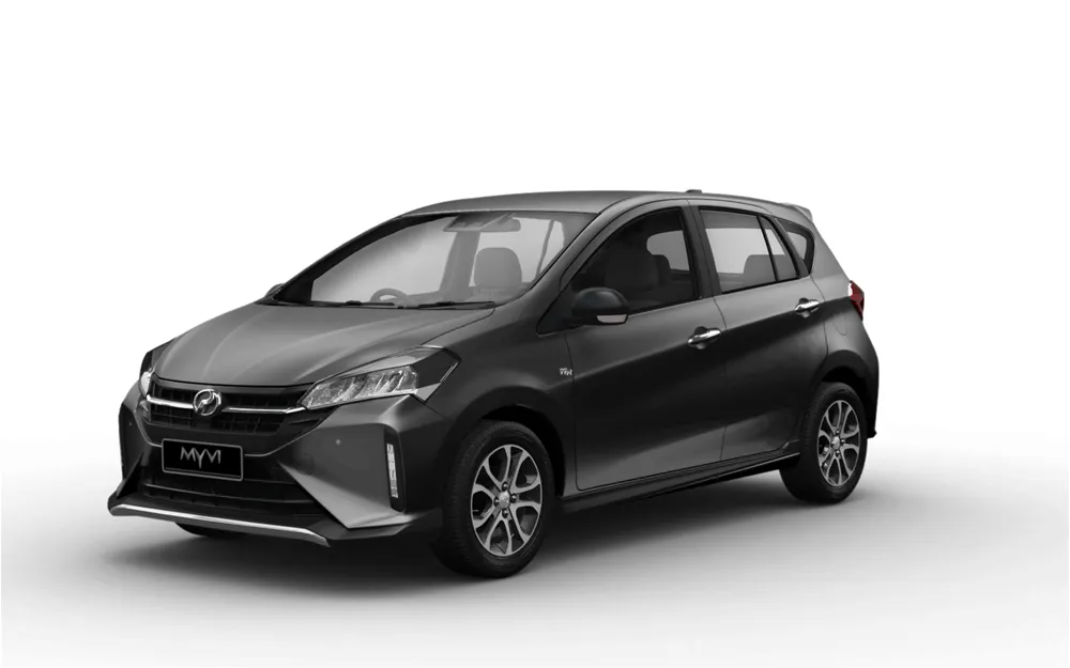
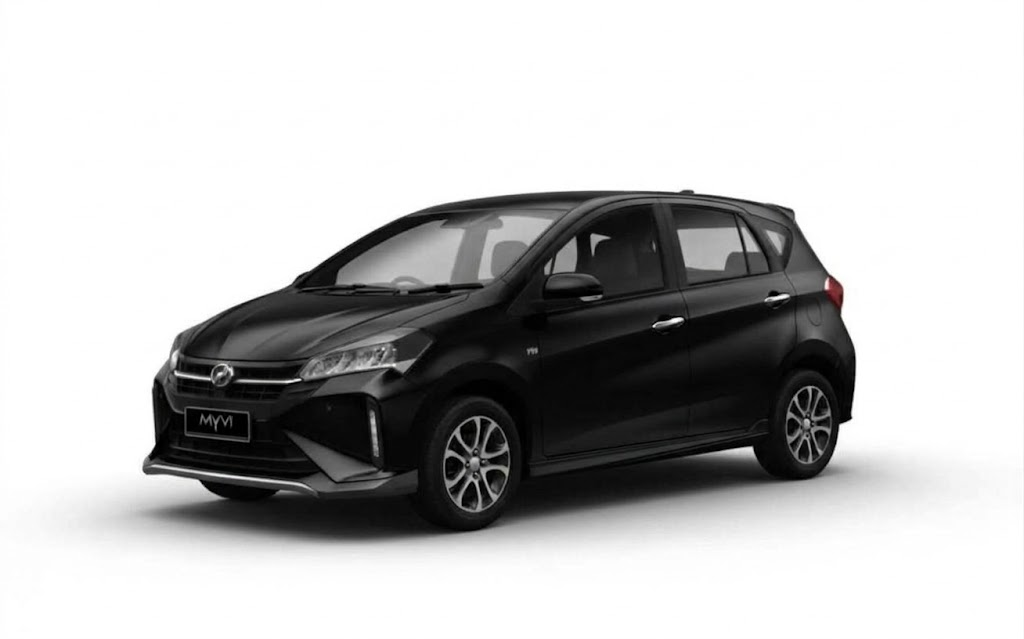
last

Changed region(s): [[0.0, 0.2676, 0.9688, 0.9515]]

diff --git a/script.js b/script.js
@@ -149,12 +149,15 @@ fleetVehicles.forEach((vehicle, index) => {
         : '<div class="car-image-placeholder">Image coming soon</div>';
     const rateText = vehicle.rate === null ? 'Contact for price' : `RM ${vehicle.rate}`;
     const rateUnit = vehicle.rate === null ? 'Quote on request' : '/ day';
+    const imageFramingClass = ['images/staria.png', 'images/myvi.png', 'images/myvi2.png'].includes(vehicle.image)
+        ? ' image-framing-tight'
+        : '';
     const card = document.createElement('article');
     card.className = `car-card reveal-on-scroll delay-${(index % 3) + 1}`;
     card.dataset.category = vehicle.category;
     card.dataset.rate = vehicle.rate === null ? '' : String(vehicle.rate);
     card.innerHTML = `
-        <div class="car-image-box">
+        <div class="car-image-box${imageFramingClass}">
             <span class="car-tag-category">${categoryLabel}</span>
             ${image}
         </div>

diff --git a/style.css b/style.css
@@ -318,6 +318,7 @@ html[data-theme="light"] .hero-desc { color: #27272a; font-weight: 500; }
 .car-card:hover { border-color: var(--accent-red); transform: translateY(-4px); box-shadow: 0 10px 25px -5px var(--accent-red-glow); }
 .car-image-box { height: 190px; width: 100%; overflow: hidden; position: relative; border-bottom: 1px solid var(--border-color); background: #ffffff; }
 .car-image-box img { width: 100%; height: 100%; object-fit: contain; object-position: center; background-color: #ffffff; transition: transform 0.4s ease; }
+.car-image-box.image-framing-tight img { object-fit: cover; object-position: center 42%; }
 .car-card:hover .car-image-box img { transform: scale(1.04); }
 .car-tag-category { position: absolute; top: 10px; left: 10px; background-color: rgba(9, 9, 11, 0.75); color: #ffffff; padding: 4px 10px; border-radius: var(--radius-full); font-size: 0.7rem; }
 
